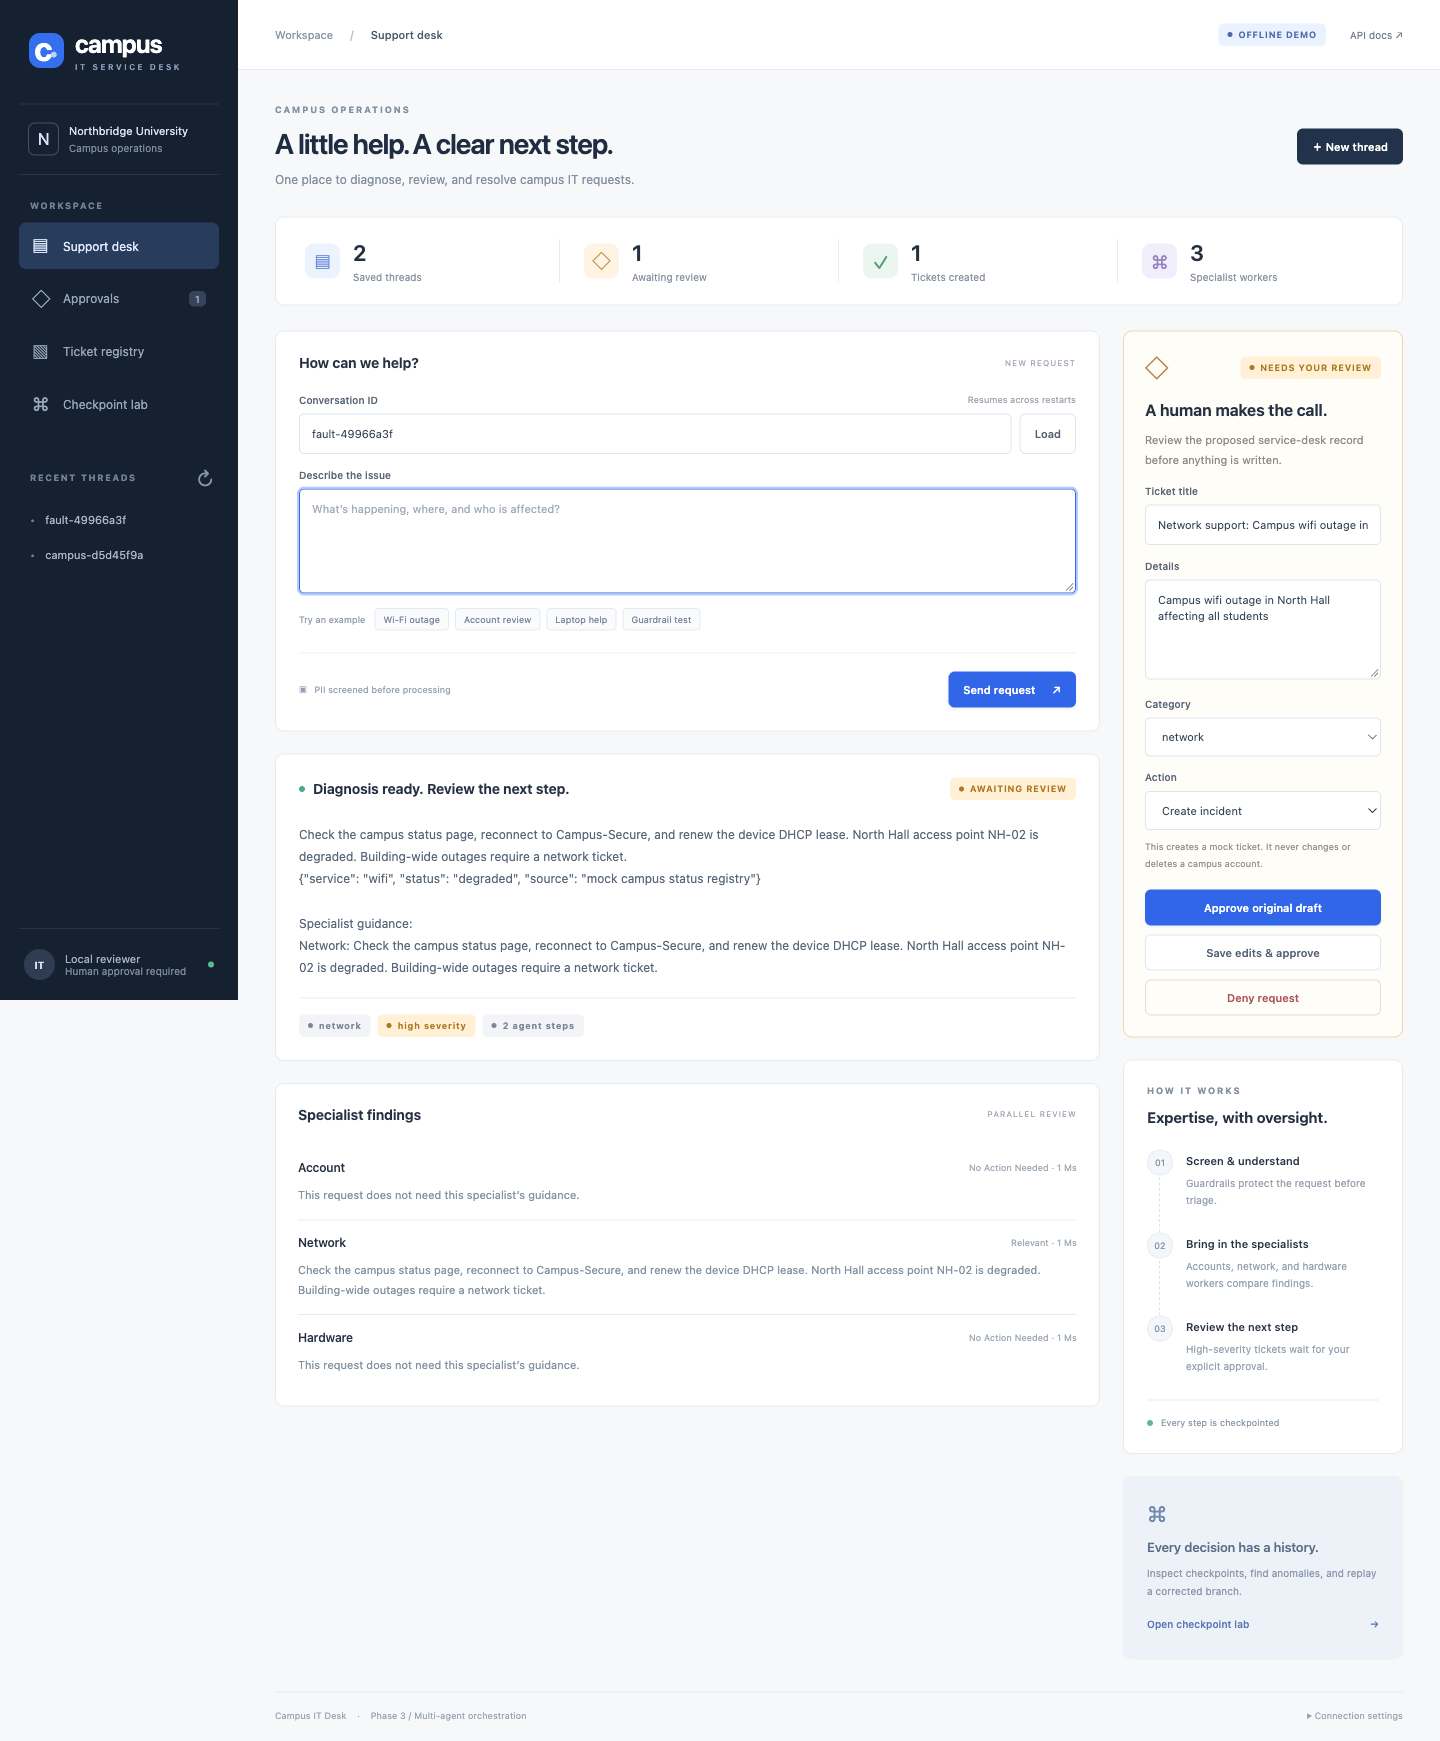
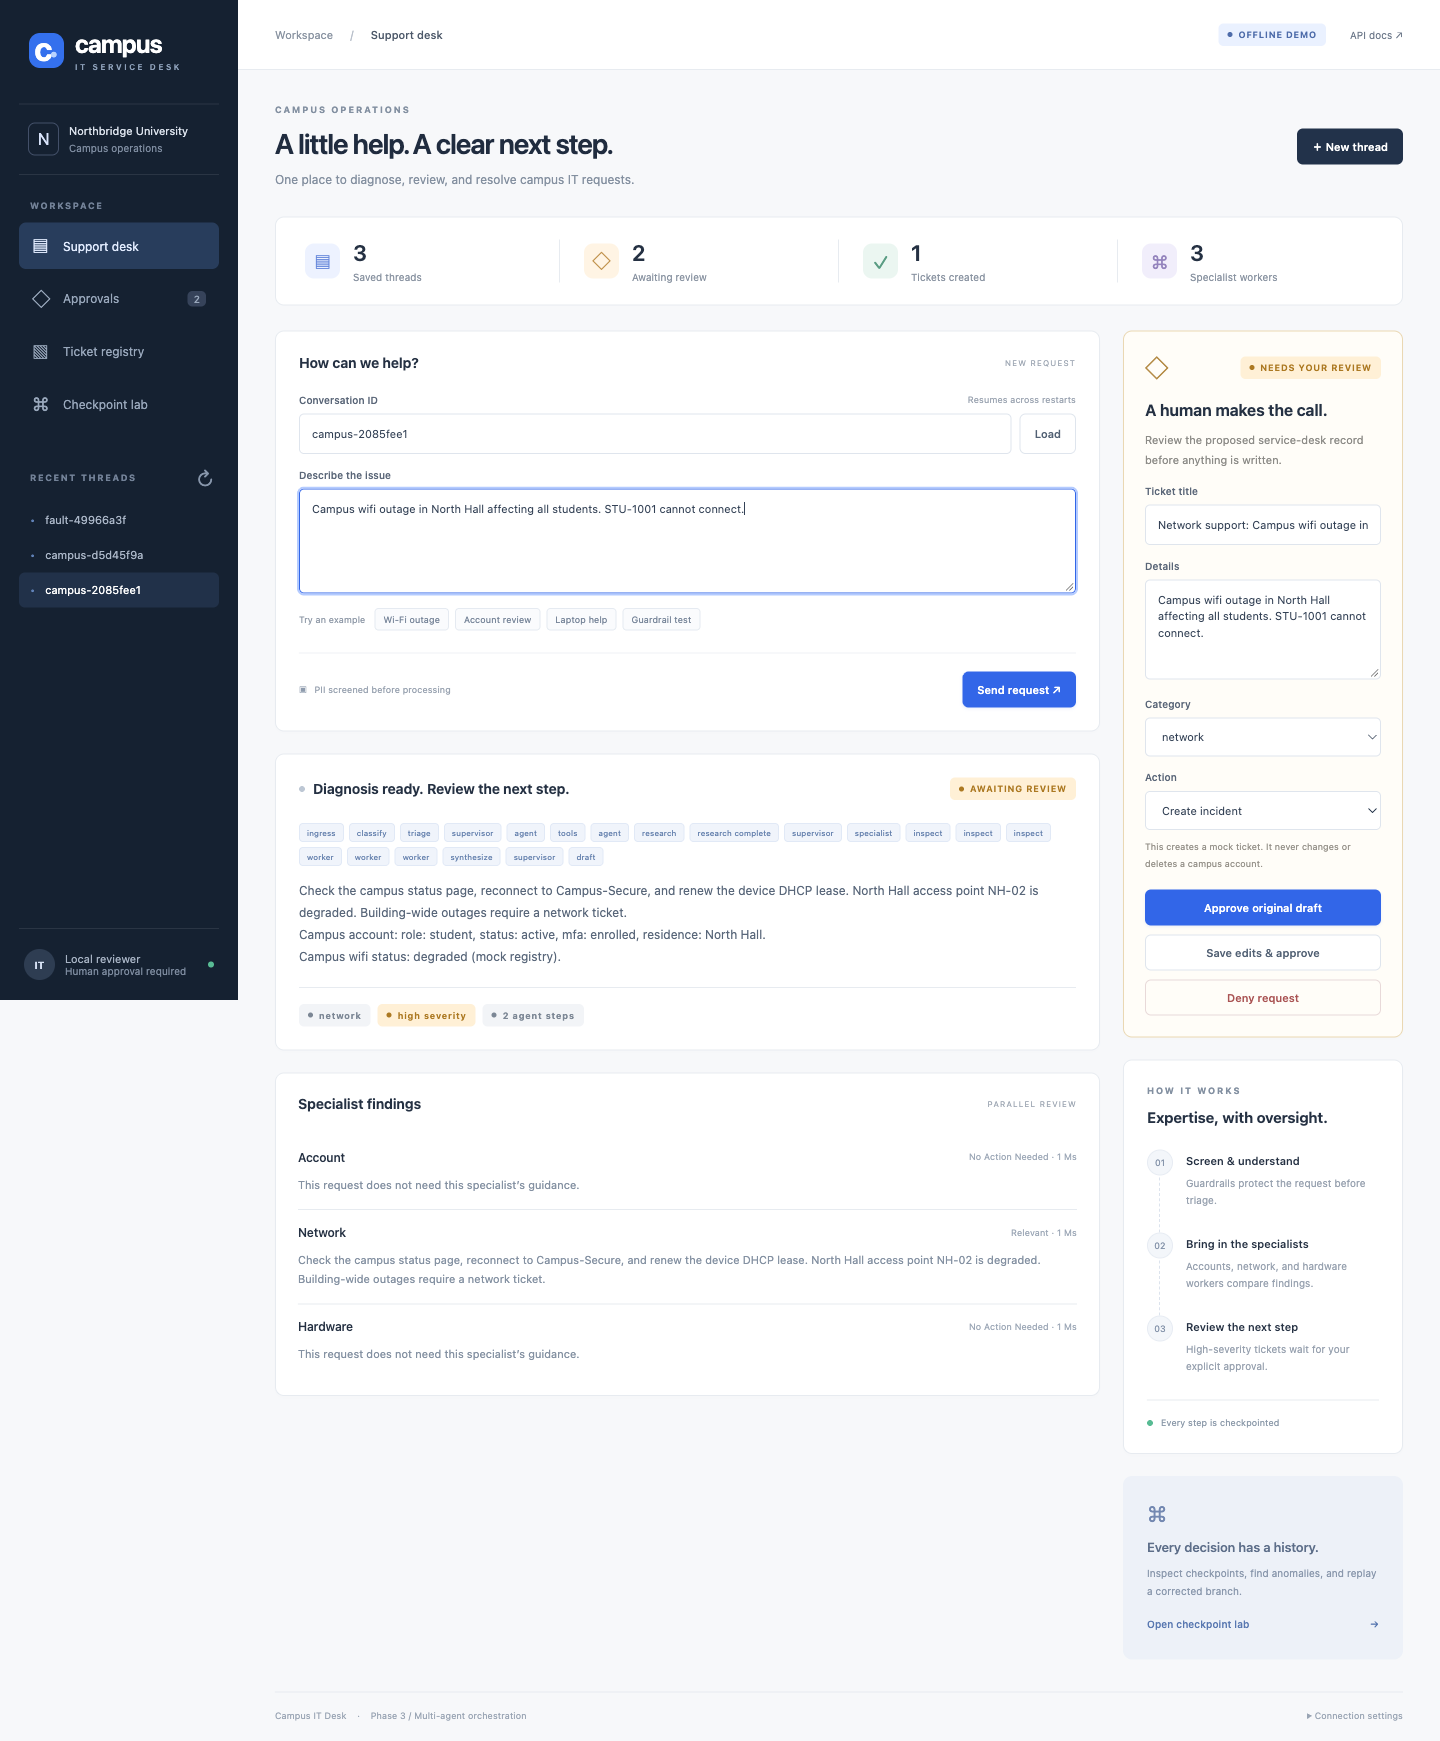
docs: record clean-clone verification and final browser evidence

diff --git a/docs/VERIFICATION.md b/docs/VERIFICATION.md
@@ -41,7 +41,9 @@ The README screenshot is an actual running UI capture, not a design mockup.
 
 ## Reproducibility
 
-The initial staged build has been tested in its working virtual environment. A fresh-clone/fresh-virtual-environment check is recorded after the final source commit.
+A fresh local clone of source commit `0f25be0` was created outside the working tree. A new Python virtual environment was created with `python -m venv`, all pinned requirements were installed with pip, and the full suite ran from that clone: **16 checks passed in 5.105 seconds**. No reference PDFs, local `.env`, working-tree database or existing virtual environment were copied into it. The remaining evidence commit changes documentation/screenshots only.
+
+The complete captured output is in [test-results.txt](test-results.txt).
 
 ## Remaining external steps
 
